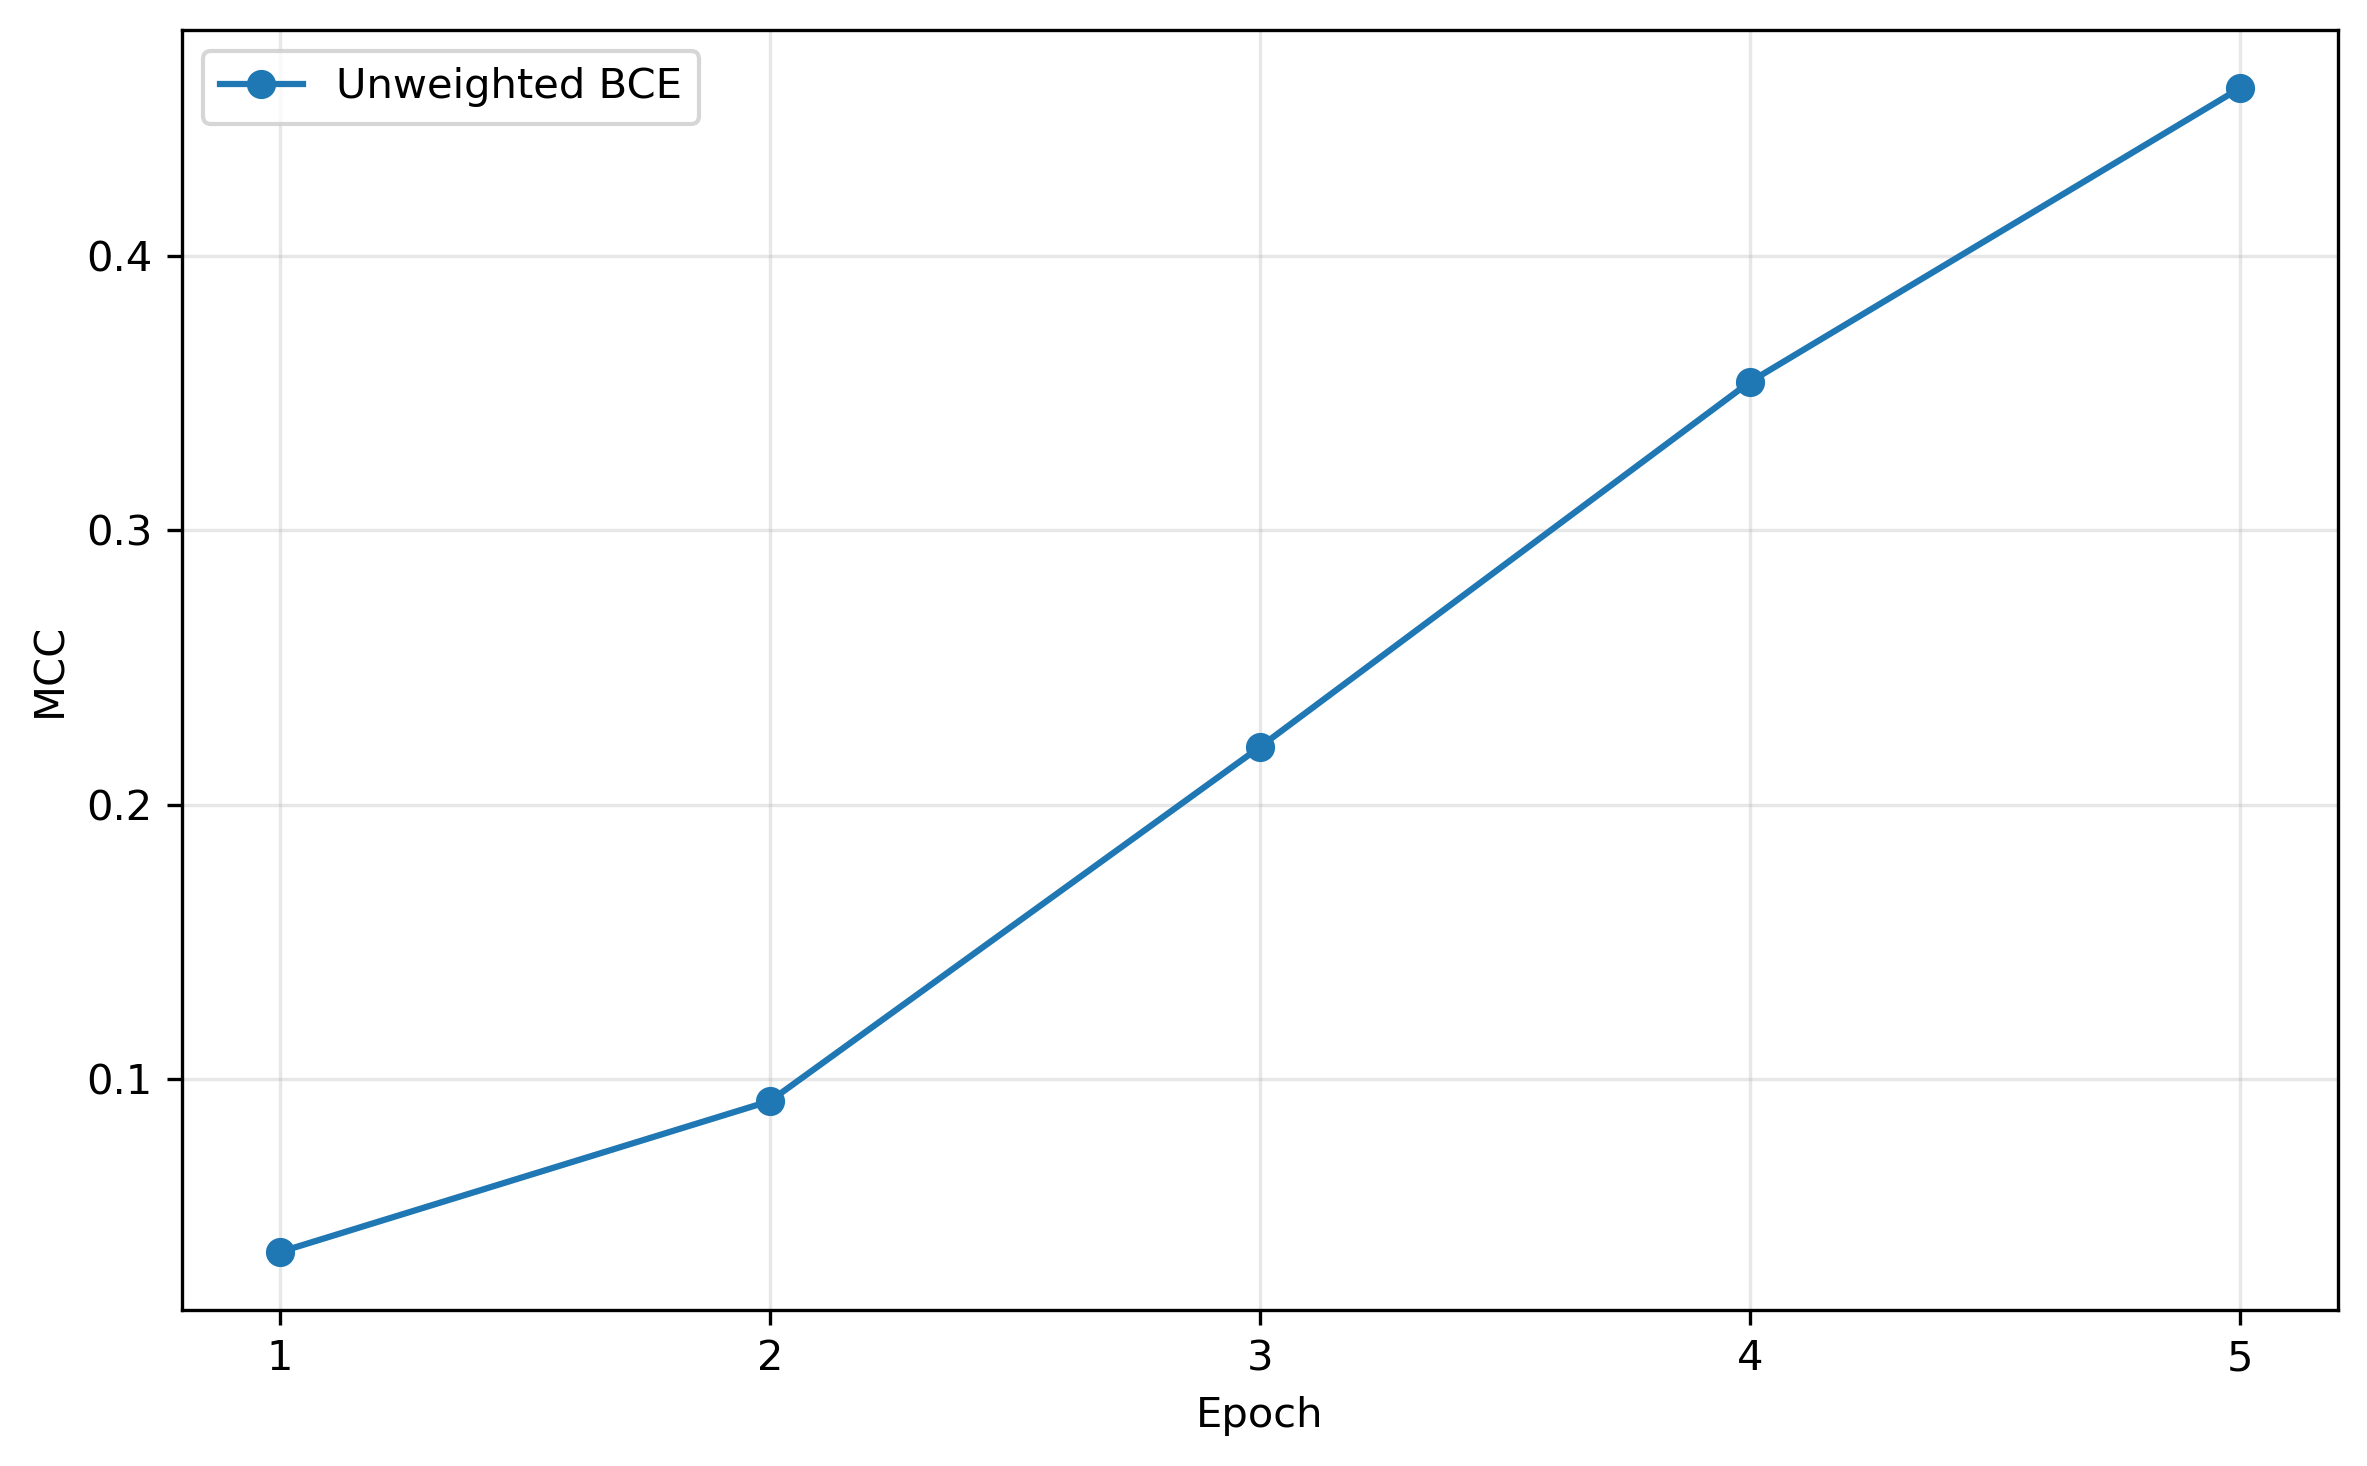
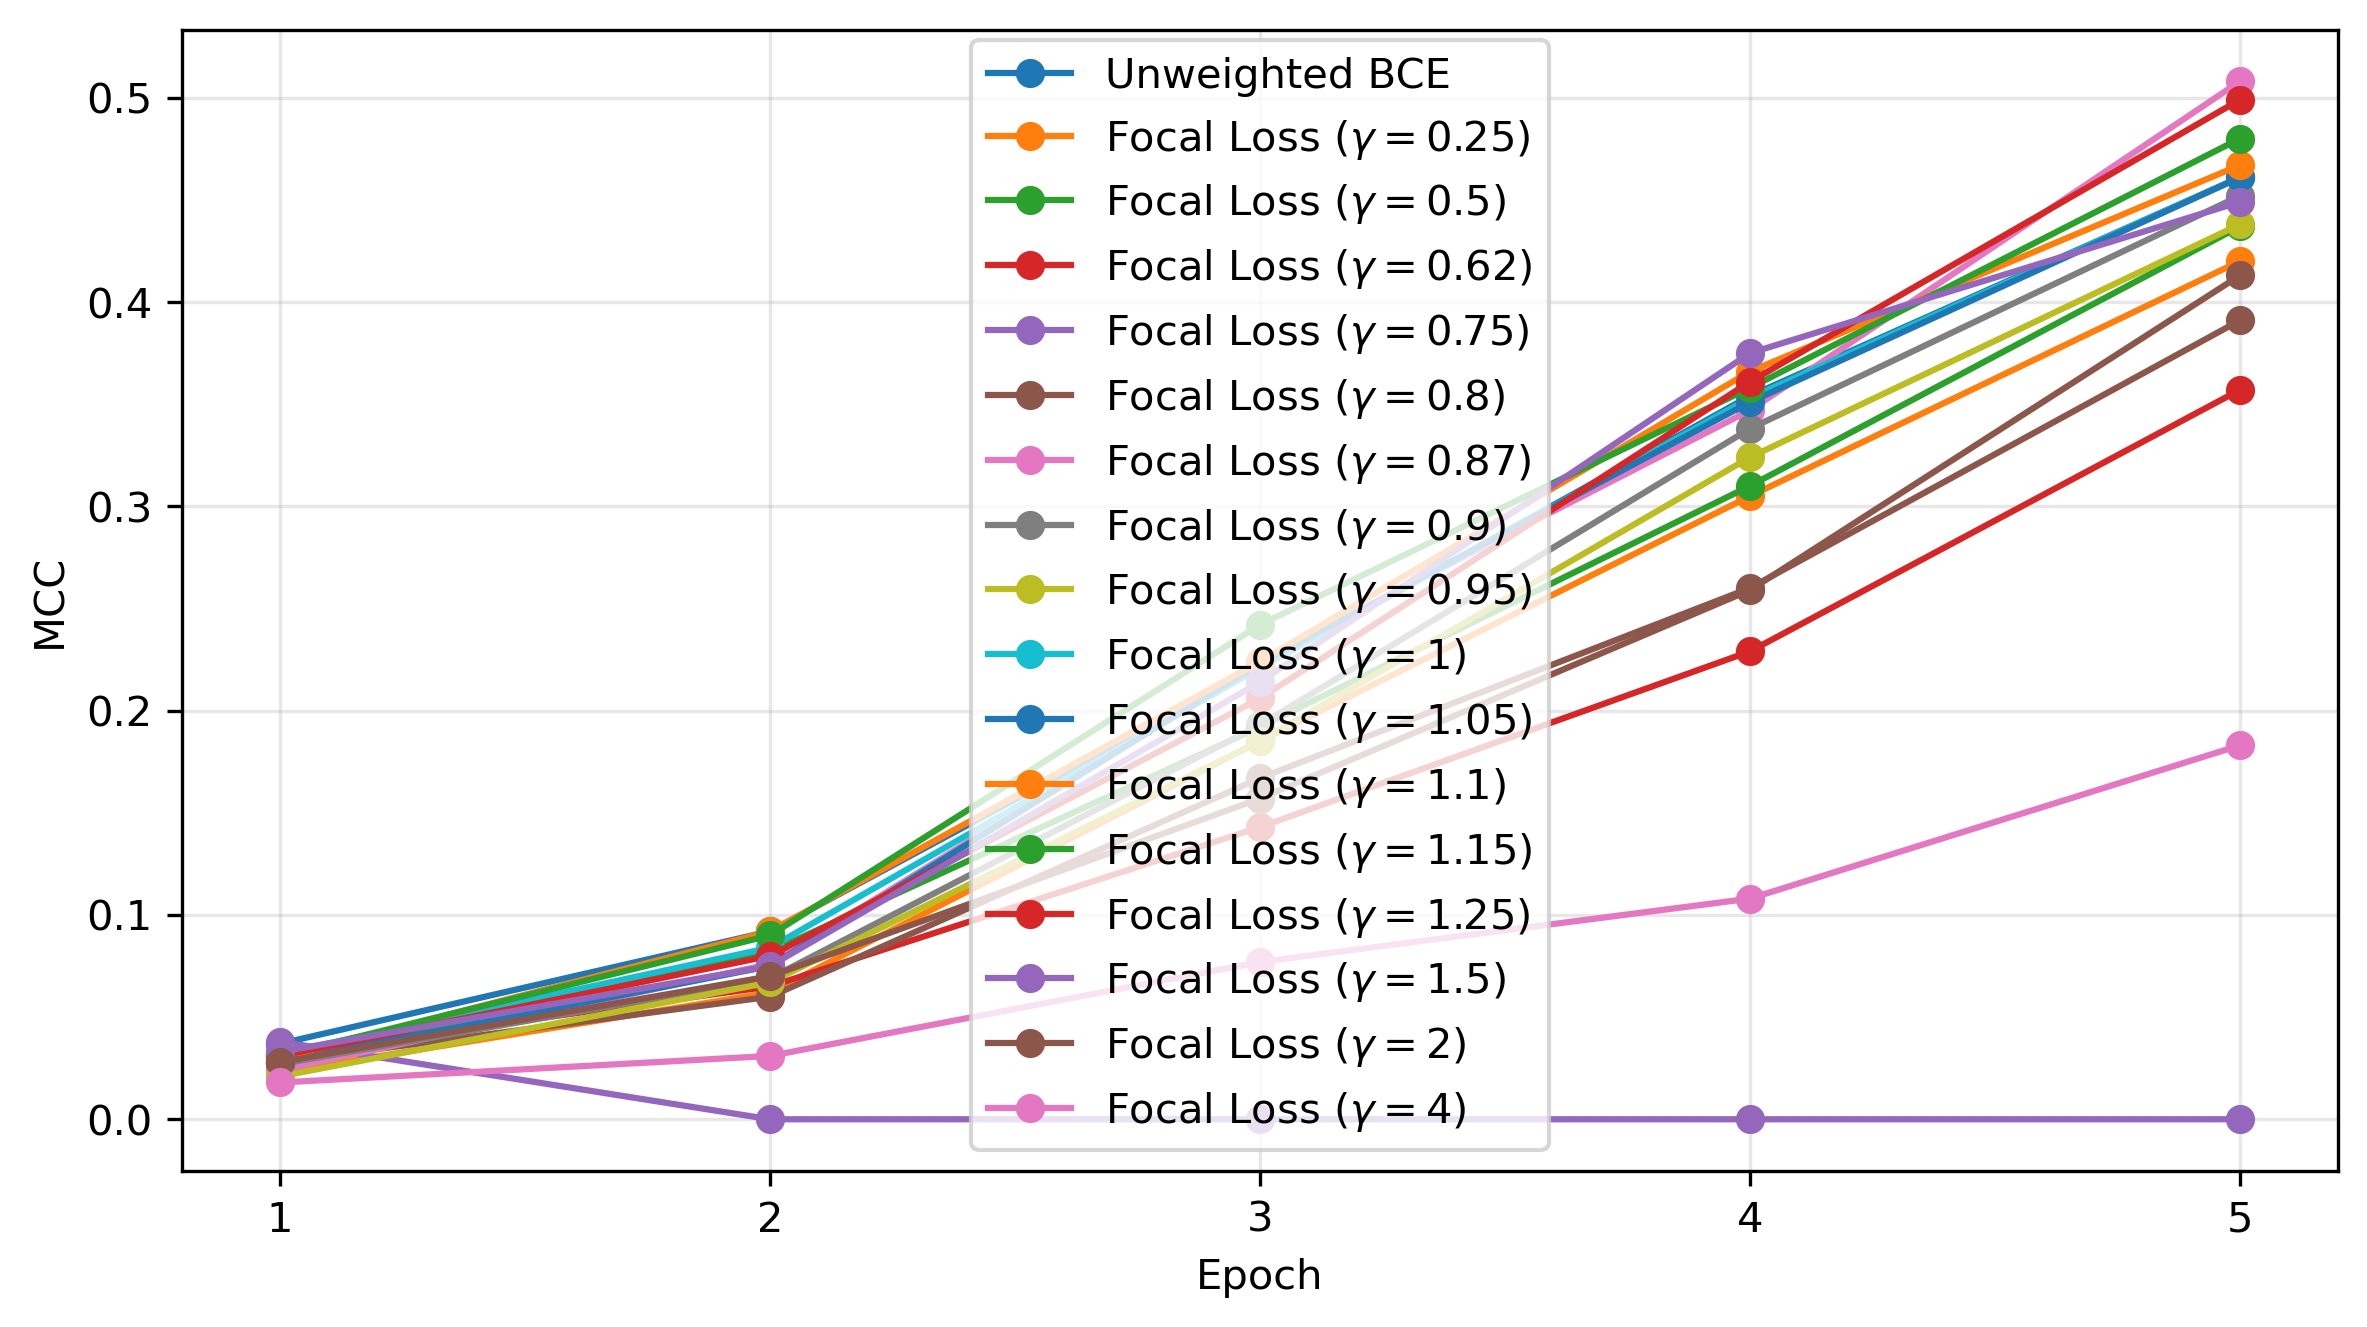
Added last 5 ep datapoints

diff --git a/paraphrase_detection/plotter.py b/paraphrase_detection/plotter.py
@@ -217,30 +217,41 @@ def exp3():
     unweighted_dev_acc = [0.910, 0.915, 0.926, 0.942, 0.956]
     unweighted_mcc = [0.037, 0.092, 0.221, 0.354, 0.461]
 
-    # TODO: Replace each None with its five-epoch metric values for that gamma.
     focal_dev_acc: dict[float, list[float] | None] = {
-        0.25: None,
-        0.5: None,
-        0.62: None,
-        0.75: None,
-        0.87: None,
-        1.0: None,
-        1.25: None,
-        1.5: None,
-        2.0: None,
-        4.0: None,
+        0.25: [0.910, 0.910, 0.923, 0.934, 0.951],
+        0.5: [0.910, 0.914, 0.923, 0.936, 0.951],
+        0.62: [0.910, 0.911, 0.920, 0.930, 0.939],
+        0.75: [0.911, 0.909, 0.909, 0.909, 0.909],
+        0.8: [0.910, 0.910, 0.921, 0.930, 0.944],
+        0.87: [0.910, 0.912, 0.925, 0.938, 0.956],
+        0.9: [0.910, 0.911, 0.924, 0.935, 0.950],
+        0.95: [0.910, 0.911, 0.922, 0.937, 0.953],
+        1.0: [0.910, 0.913, 0.926, 0.938, 0.957],
+        1.05: [0.910, 0.912, 0.927, 0.939, 0.956],
+        1.1: [0.910, 0.913, 0.928, 0.941, 0.958],
+        1.15: [0.910, 0.914, 0.927, 0.940, 0.958],
+        1.25: [0.910, 0.913, 0.924, 0.939, 0.958],
+        1.5: [0.910, 0.912, 0.925, 0.939, 0.954],
+        2.0: [0.910, 0.911, 0.921, 0.927, 0.946],
+        4.0: [0.910, 0.908, 0.915, 0.919, 0.923],
     }
     focal_mcc: dict[float, list[float] | None] = {
-        0.25: None,
-        0.5: None,
-        0.62: None,
-        0.75: None,
-        0.87: None,
-        1.0: None,
-        1.25: None,
-        1.5: None,
-        2.0: None,
-        4.0: None,
+        0.25: [0.023, 0.062, 0.185, 0.305, 0.420],
+        0.5: [0.027, 0.082, 0.192, 0.310, 0.437],
+        0.62: [0.032, 0.065, 0.143, 0.229, 0.357],
+        0.75: [0.038, 0.000, 0.000, 0.000, 0.000],
+        0.8: [0.028, 0.060, 0.167, 0.260, 0.391],
+        0.87: [0.024, 0.076, 0.224, 0.347, 0.508],
+        0.9: [0.027, 0.069, 0.193, 0.338, 0.452],
+        0.95: [0.021, 0.067, 0.185, 0.324, 0.438],
+        1.0: [0.032, 0.084, 0.221, 0.353, 0.461],
+        1.05: [0.028, 0.075, 0.223, 0.351, 0.461],
+        1.1: [0.030, 0.092, 0.224, 0.366, 0.467],
+        1.15: [0.031, 0.090, 0.242, 0.358, 0.480],
+        1.25: [0.031, 0.080, 0.206, 0.361, 0.499],
+        1.5: [0.033, 0.075, 0.214, 0.375, 0.449],
+        2.0: [0.028, 0.070, 0.157, 0.259, 0.413],
+        4.0: [0.018, 0.031, 0.077, 0.108, 0.183],
     }
 
     __plot_graph(
@@ -261,8 +272,14 @@ def exp3():
         0.5: 0.9507,
         0.62: 0.9391,
         0.75: 0.9107,
+        0.8: 0.9445,
         0.87: 0.9563,
+        0.9: 0.9498,
+        0.95: 0.9528,
         1.0: 0.9567,
+        1.05: 0.9560,
+        1.1: 0.9576,
+        1.15: 0.9577,
         1.25: 0.9577,
         1.5: 0.9542,
         2.0: 0.9462,
@@ -273,8 +290,14 @@ def exp3():
         0.5: 0.4372,
         0.62: 0.3571,
         0.75: 0.0380,
+        0.8: 0.3913,
         0.87: 0.5085,
+        0.9: 0.4516,
+        0.95: 0.4382,
         1.0: 0.4606,
+        1.05: 0.4605,
+        1.1: 0.4671,
+        1.15: 0.4800,
         1.25: 0.4992,
         1.5: 0.4486,
         2.0: 0.4130,
